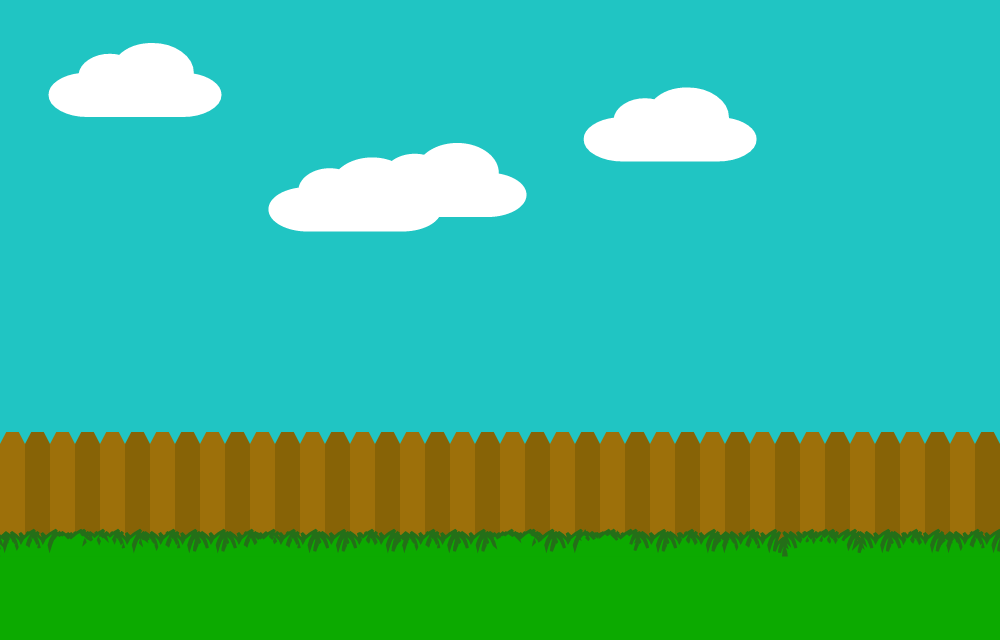
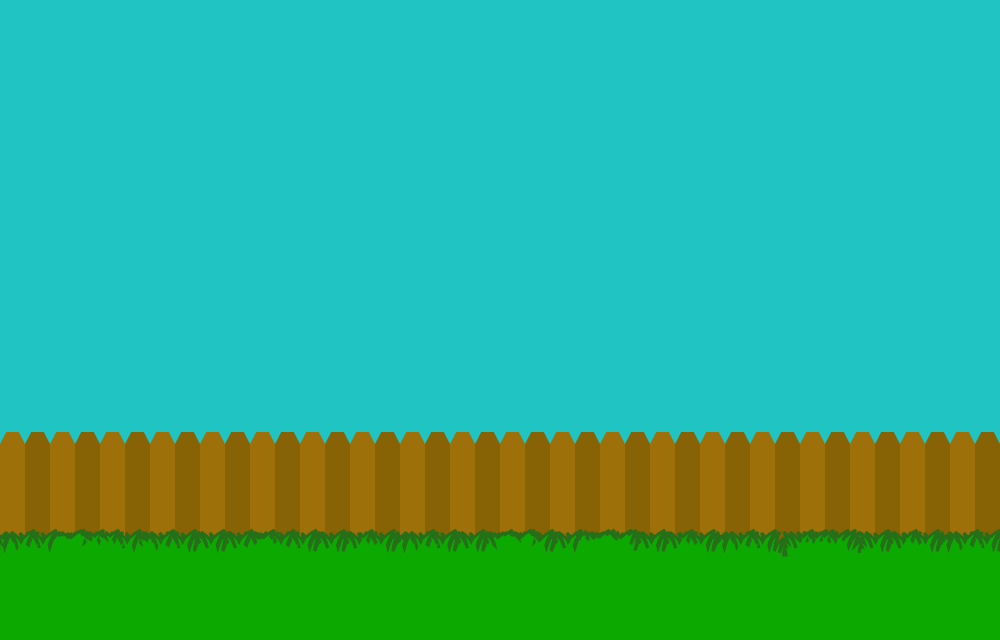
done

Changed region(s): [[0.248, 0.2188, 0.527, 0.375], [0.031, 0.0625, 0.217, 0.1875], [0.589, 0.125, 0.775, 0.25]]

diff --git a/rankPageWorld.py b/rankPageWorld.py
@@ -31,15 +31,18 @@ class rankPageWorld(Screen):
 	background = ObjectProperty(Background())
 	def __init__(self, **kwargs):
 		super(rankPageWorld, self).__init__(**kwargs)
+
+		self.background.remove_clouds()
+
 		self.master_grid = GridLayout(cols=1,
-									   size_hint=(1.,.9),
+									   size_hint=(1.,.8),
 									   pos_hint={'x':0., 'y':.05},
 									   spacing=10
 									   )
 
 		self.world_ranking = GridLayout(cols=1, size_hint_x=1.)#, size_hint_y= None)#, spacing = 10, row_force_default=True, row_default_height=60)
-		self.world_ranking.add_widget(Label(text='World Ranking', font_size=90))
-		row = GridLayout(cols=3)
+		self.world_ranking.add_widget(Label(text='World Ranking', bold=True, font_size=90, size_hint_y=0.25))
+		row = GridLayout(cols=3, size_hint_y=0.25)
 		row.add_widget(Label(text='Rank', halign='center', valign='center', font_size=60))
 		row.add_widget(Label(text='Username', halign='left', valign='center', font_size=60))
 		row.add_widget(Label(text='Score', halign='right', valign='center', font_size=60))
@@ -63,11 +66,11 @@ class rankPageWorld(Screen):
 	    self.background.size = value
 	    self.background.update_position()
 
-	def addUserToScroll(self, rank, uname, score):
+	def addUserToScroll(self, rank, uname, score, itsMe=False):
 		row = GridLayout(cols=3)
-		row.add_widget(Label(text=rank, halign='center', valign='center', font_size=60))
-		row.add_widget(Label(text=uname, halign='left', valign='center', font_size=60))
-		row.add_widget(Label(text=score, halign='right', valign='center', font_size=60))
+		row.add_widget(Label(text=rank, bold=itsMe, halign='center', valign='center', font_size=60))
+		row.add_widget(Label(text=uname, bold=itsMe, halign='left', valign='center', font_size=60))
+		row.add_widget(Label(text=score, bold=itsMe, halign='right', valign='center', font_size=60))
 		self.onlineUsers.add_widget(row)
 
 	def on_enter(self):
@@ -96,7 +99,7 @@ class rankPageWorld(Screen):
 			if not device_already_present:
 				popup = UsernamePopup(auto_dismiss=True)
 				popup.open()
-				# popup.bind(on_dismiss=self.reset_ranking)
+				popup.bind(on_dismiss=self.reset_ranking)
 
 		self.reset_ranking(None)
 
@@ -126,16 +129,30 @@ class rankPageWorld(Screen):
 			return
 
 		users = []
+		my_uname = None
 		for i_row, (deviceID, uname, score) in enumerate(sheet.get_all_values(), 1):
 			if i_row == 1: continue
 			users.append([uname, int(score)])
+			if deviceID == self.userDevice_ID:
+				my_uname = uname
 
 		users.sort(reverse=True, key=lambda x: x[1])
 
-		if not self.onlineUsers.children:
-			self.addUserToScroll('','------------------','')
-			for rank, (uname, score) in enumerate(users, 1):
-				self.addUserToScroll(str(rank), uname, str(score))
+		self_present = False
+		for i_rank, (uname, score) in enumerate(users, 1):
+			if uname == my_uname:
+				self_present == True
+				self.addUserToScroll(str(i_rank), uname, str(score), itsMe=True)
+			else:
+				self.addUserToScroll(str(i_rank), uname, str(score))
+			if i_rank == 10:
+				break
+		self.addUserToScroll(3*'-', 40*'-', 3*'-')
+		if not self_present:
+			for i_rank, (uname, score) in enumerate(users, 1):
+				if uname == my_uname:
+					self.addUserToScroll(str(i_rank), uname, str(score), itsMe=True)
+					break
 
 
 
@@ -259,7 +276,7 @@ Builder.load_string("""
     Button:
     	text: 'User'
     	size_hint: (.1, .1)
-		pos_hint: {'x':0.45, 'y':.89}
+		pos_hint: {'x':0.4, 'y':.89}
 		on_release: app.sm.current = 'RankPageUser'
         background_color: 0, 0, 0, .0
 		Image:
@@ -271,7 +288,7 @@ Builder.load_string("""
     Button:
     	text: 'World'
     	size_hint: (.1, .1)
-		pos_hint: {'x':0.55, 'y':.89}
+		pos_hint: {'x':0.5, 'y':.89}
 		# on_release: app.sm.current = 'RankPageWorld'
         background_color: 0, 0, 0, .0
 		Image:
@@ -295,17 +312,4 @@ Builder.load_string("""
 	size: '300dp', '200dp'
 	separator_color: 0x77 / 255., 0x6e / 255., 0x65 / 255., 1.
 	title_size: '20sp'
-
-	# Button:
-	# 	text: ''
-	# 	size_hint: (.1, .1)
-	# 	pos_hint: {'x':0.01, 'y':.95}
-	# 	on_release: root.dismiss()
-	# 	background_color: 0, 0, 0, .0
-	# 	Image:
-	# 		source: "images/icons/close.png"
-	# 		y: self.parent.y
-	# 		x: self.parent.x
-	# 		size: self.parent.size
-	# 		allow_stretch: True
 """)

diff --git a/components/background.py b/components/background.py
@@ -18,6 +18,11 @@ class Background(Widget):
         # self.velocity = [-Window.size[0]/400., 0] #pxl*frame_rate
         self.base_velocity = Vector(-Window.size[0]/200., 0)
 
+    def remove_clouds(self):
+        self.image_1.source = 'images/background/blueSky_fence_greenGrass.png'
+        self.image_2.source = 'images/background/blueSky_fence_greenGrass.png'
+        self.image_3.source = 'images/background/blueSky_fence_greenGrass.png'
+
     def update(self, score):
         self.velocity = self.base_velocity * (1 + 0.05*log(1+30*score)/10)
 
@@ -47,16 +52,16 @@ Builder.load_string("""
     Image:
         id: image_1
         allow_stretch: True
-        source: "images/background/blueSky_fence_greenGrass.png"
+        source: "images/background/blueSky_fence_greenGrass_whiteClouds.png"
         size: root.height * self.image_ratio, root.height
     Image:
         id: image_2
         allow_stretch: True
-        source: "images/background/blueSky_fence_greenGrass.png"
+        source: "images/background/blueSky_fence_greenGrass_whiteClouds.png"
         size: root.height * self.image_ratio, root.height
     Image:
         id: image_3
         allow_stretch: True
-        source: "images/background/blueSky_fence_greenGrass.png"
+        source: "images/background/blueSky_fence_greenGrass_whiteClouds.png"
         size: root.height * self.image_ratio, root.height
 """)

diff --git a/rankPageUser.py b/rankPageUser.py
@@ -21,13 +21,16 @@ class rankPageUser(Screen):
 	background = ObjectProperty(Background())
 	def __init__(self, **kwargs):
 		super(rankPageUser, self).__init__(**kwargs)
+
+		self.background.remove_clouds()
+
 		self.master_grid = GridLayout(cols=1,
-									   size_hint=(1.,.9),
+									   size_hint=(1.,.8),
 									   pos_hint={'x':0., 'y':.05},
 									   spacing=10
 									   )
 		self.score_report = GridLayout(cols=1, size_hint=(1.,.3))
-		self.score_report.add_widget(Label(text='Your scores', font_size=90))
+		self.score_report.add_widget(Label(text='Your scores', bold=True, font_size=90))
 		self.score_report.add_widget(Label(text='Best: 0', font_size=60))
 		self.score_report.add_widget(Label(text='Last: 0', font_size=60))
 		self.score_report.add_widget(Label(text='Number of games: 0', font_size=60))
@@ -78,7 +81,7 @@ Builder.load_string("""
     Button:
     	text: 'User'
     	size_hint: (.1, .1)
-		pos_hint: {'x':0.45, 'y':.89}
+		pos_hint: {'x':0.4, 'y':.89}
 		# on_release: app.sm.current = 'RankPageUser'
         background_color: 0, 0, 0, .0
 		Image:
@@ -90,7 +93,7 @@ Builder.load_string("""
     Button:
     	text: 'World'
     	size_hint: (.1, .1)
-		pos_hint: {'x':0.55, 'y':.89}
+		pos_hint: {'x':0.5, 'y':.89}
 		on_release: app.sm.current = 'RankPageWorld'
         background_color: 0, 0, 0, .0
 		Image:
